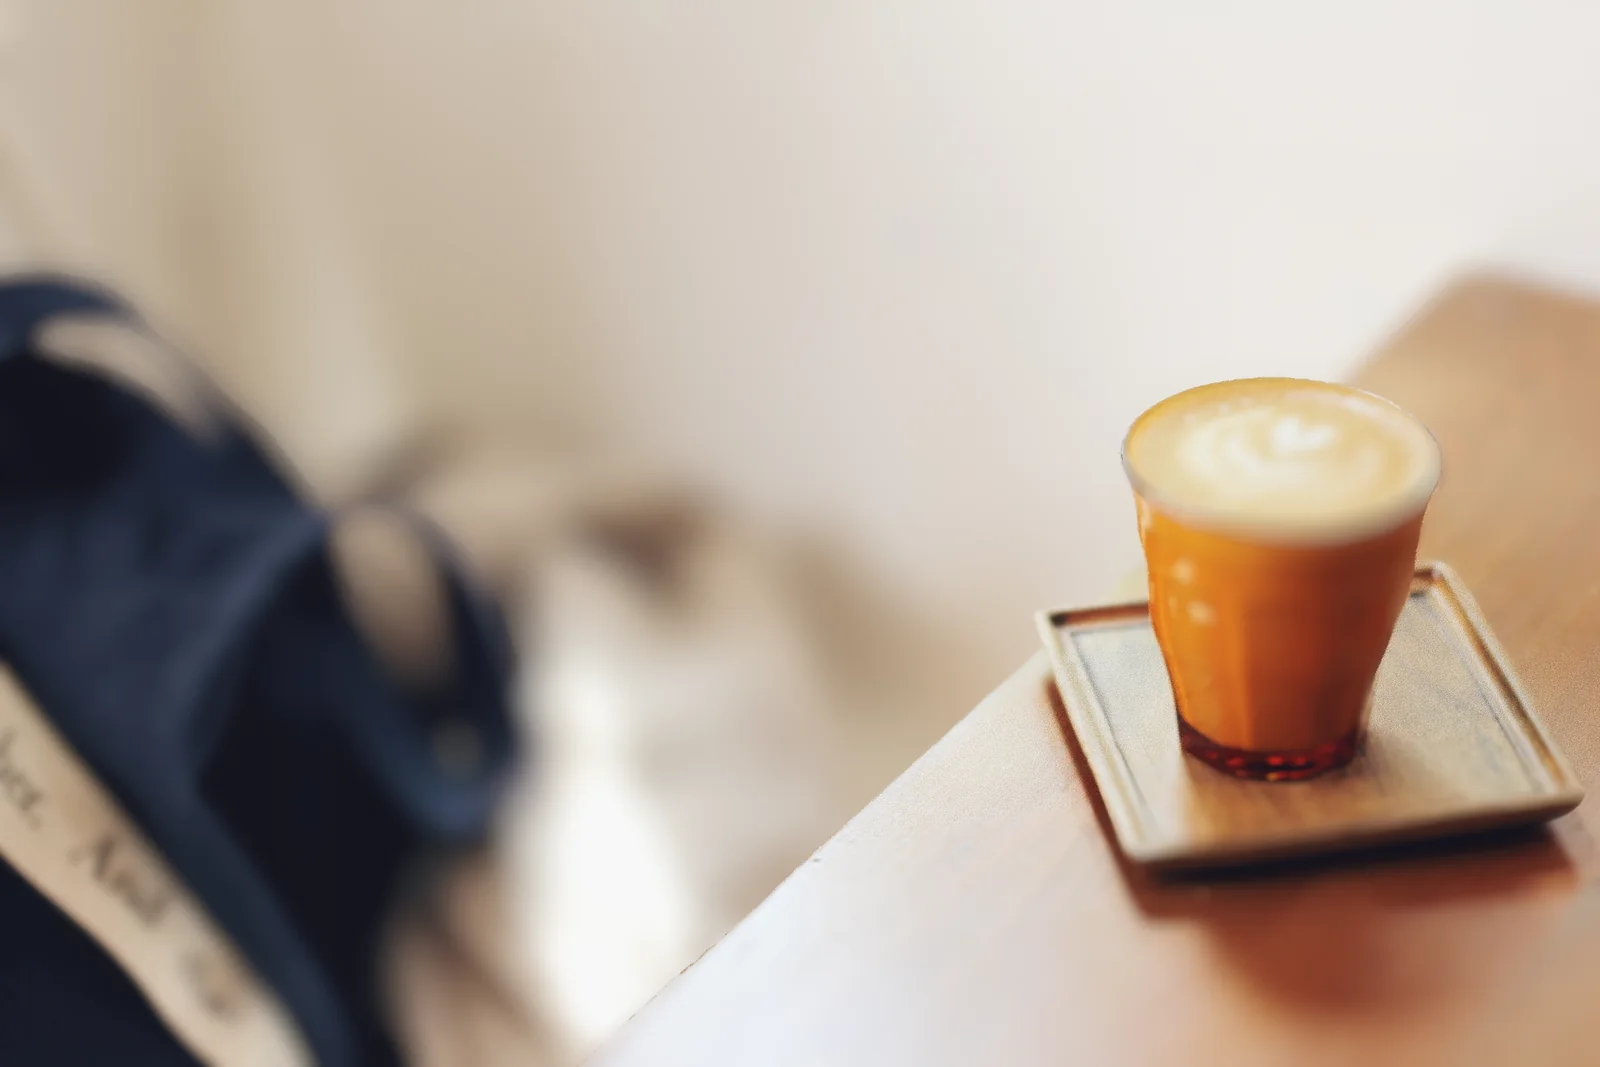
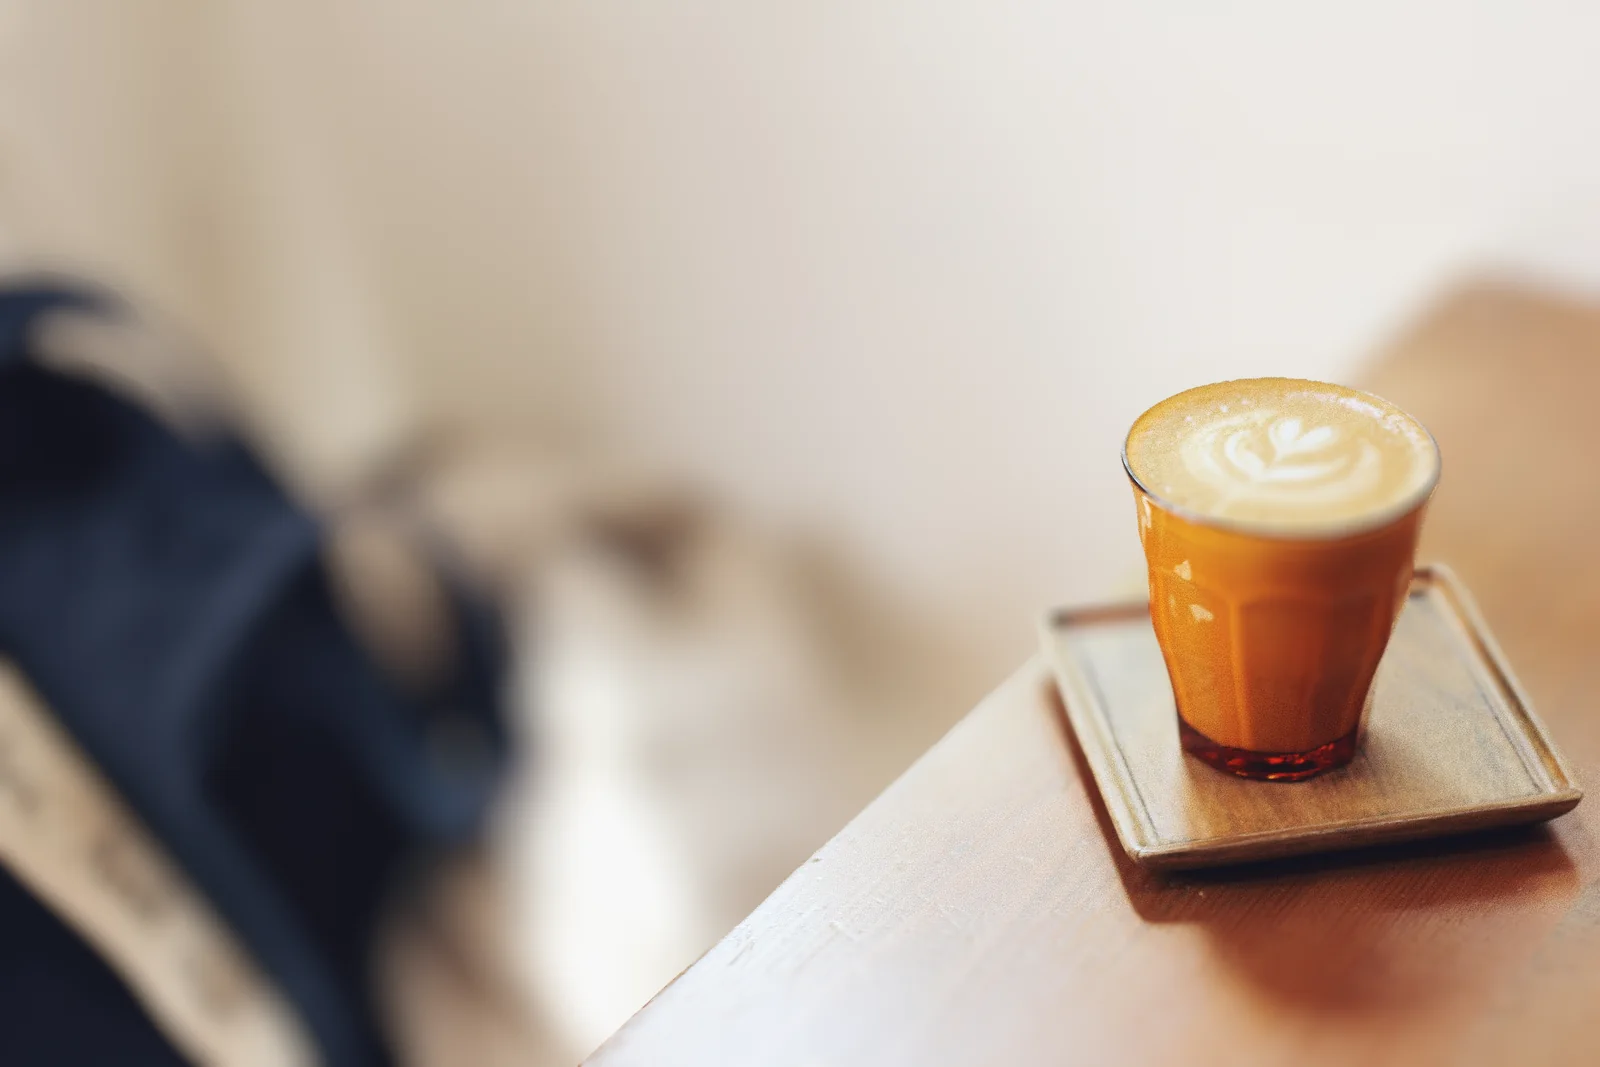
Lucent Lab 0.4 beta: download, checksum and page text (Point colour, Relight, Adaptive looks, the new lens blur, Colour blotches), a new lens blur example, plus a Latest entry

diff --git a/prototype/lucent-lab/index.html b/prototype/lucent-lab/index.html
@@ -392,7 +392,7 @@ html::-webkit-scrollbar { display: none; }
         </div>
       </div>
       <div class="side fade-in d4">
-        <div><b>0.3 beta</b> &nbsp;·&nbsp; Windows 10 and 11</div>
+        <div><b>0.4 beta</b> &nbsp;·&nbsp; Windows 10 and 11</div>
         <div>Free, no account, nothing uploaded</div>
         <div class="drag"><i></i>Drag the light</div>
       </div>
@@ -524,7 +524,7 @@ html::-webkit-scrollbar { display: none; }
           <img class="after" src="media/blur-after.webp" alt="The same photo with a soft lens blur behind the cup" loading="lazy">
           <span class="bf">BEFORE</span><span class="af">AFTER</span>
           <div class="line"></div>
-          <div class="lab"><div><b>Lens blur</b><span>It reads the depth of the photo and blurs what's far away, like a wide-open lens.</span></div></div>
+          <div class="lab"><div><b>Lens blur</b><span>It reads the depth of the photo, keeps sharp what the camera focused on, and melts the rest like a wide-open lens.</span></div></div>
         </div>
       </div>
       <div class="facts">
@@ -579,10 +579,10 @@ html::-webkit-scrollbar { display: none; }
   <section class="dl" id="download">
     <div class="wrap">
       <img class="icon" src="media/icon.png" alt="Lucent Lab's icon" data-rise>
-      <h2 data-rise="2">Lucent Lab <em>0.3 beta</em></h2>
-      <p class="sub" data-rise="3">Free, for Windows. It's a beta: everything works, and it gets better with every update. The app tells you when a new one is out. Version 0.3, 26 October 2026.</p>
+      <h2 data-rise="2">Lucent Lab <em>0.4 beta</em></h2>
+      <p class="sub" data-rise="3">Free, for Windows. It's a beta: everything works, and it gets better with every update. The app tells you when a new one is out. Version 0.4, 27 October 2026.</p>
       <div class="acts" data-rise="3">
-        <a class="cta" href="https://github.com/SNAXUS1/stezy-site/releases/download/lucent-lab-v0.3.0/LucentLab-0.3.0.zip" id="dl-btn" data-dl>Download for Windows<span class="ic"><svg width="16" height="16" viewBox="0 0 16 16" fill="none" stroke="currentColor" stroke-width="1.4" stroke-linecap="round" stroke-linejoin="round"><path d="M8 2.5v10M3.5 8.5 8 13l4.5-4.5"/></svg></span></a>
+        <a class="cta" href="https://github.com/SNAXUS1/stezy-site/releases/download/lucent-lab-v0.4.0/LucentLab-0.4.0.zip" id="dl-btn" data-dl>Download for Windows<span class="ic"><svg width="16" height="16" viewBox="0 0 16 16" fill="none" stroke="currentColor" stroke-width="1.4" stroke-linecap="round" stroke-linejoin="round"><path d="M8 2.5v10M3.5 8.5 8 13l4.5-4.5"/></svg></span></a>
       </div>
       <div class="specs" data-rise>
         <div><small>SYSTEM</small><b>Windows 10 or 11, 64-bit</b></div>
@@ -590,7 +590,7 @@ html::-webkit-scrollbar { display: none; }
         <div><small>SIZE</small><b>690 MB, AI included</b></div>
         <div><small>PRICE</small><b>Free. No account.</b></div>
       </div>
-      <details class="sumbox" data-rise><summary>File checksum (SHA-256)</summary><code>0f157e9e8d3ccee6a9f6353273e9a11a8862b47857a3216c613c3799e153d749</code></details>
+      <details class="sumbox" data-rise><summary>File checksum (SHA-256)</summary><code>92b1338a3862bded89a3bcb1c30d41ce5a5e4543f9b782a19b6424d07d5a7293</code></details>
       <p class="fine" data-rise>The app isn't signed yet, so the first time Windows may say it "protected your PC". Click <b>More info</b>, then <b>Run anyway</b>. Your photos never leave your PC and your originals are never changed. Once a day it only asks stezy.lt whether there's a newer version.</p>
     </div>
   </section>
@@ -602,8 +602,8 @@ html::-webkit-scrollbar { display: none; }
     <div>
       <h4>LUCENT LAB</h4>
       <ul>
-        <li><a href="https://github.com/SNAXUS1/stezy-site/releases/download/lucent-lab-v0.3.0/LucentLab-0.3.0.zip" data-dl>Download 0.3 beta</a></li>
-        <li><a href="https://github.com/SNAXUS1/stezy-site/releases/tag/lucent-lab-v0.3.0" rel="noopener">Release notes</a></li>
+        <li><a href="https://github.com/SNAXUS1/stezy-site/releases/download/lucent-lab-v0.4.0/LucentLab-0.4.0.zip" data-dl>Download 0.4 beta</a></li>
+        <li><a href="https://github.com/SNAXUS1/stezy-site/releases/tag/lucent-lab-v0.4.0" rel="noopener">Release notes</a></li>
         <li><a href="/#apps">More apps on stezy.lt</a></li>
       </ul>
     </div>
@@ -976,8 +976,11 @@ $('#lab-reset').addEventListener('click', () => { for (const k in vals) vals[k] 
 const ITEMS = [
   ['Camera RAW', 'Opens the RAW files of over a thousand cameras, with automatic lens corrections for hundreds of lenses.'],
   ['Masks', 'Brush, gradients and distance masks, plus one click for the sky (every gap between the branches), the subject or anything you point at, with hair-fine edges.'],
+  ['Adaptive looks', 'One click, made for each photo: the AI finds the subject, the sky or the background and edits just those. Colour pop, Portrait glow, Cinematic, Spotlight and more.'],
+  ['Point colour', 'Click any colour in the photo and change just that colour. Colour pop keeps only the colours you picked.'],
+  ['Relight', 'Put a light into the photo and drag it around: it falls on what faces it, from the depth of the scene.'],
   ['Heal, Clone and Remove', 'Paint over a spot and clean texture from nearby blends in, or copy it exactly. Bigger things get painted over and filled in by AI.'],
-  ['AI Denoise', 'Cleans the camera\'s own sensor data, fast or at its very best, so even a nearly black photo comes back clean, with no purple in the blacks.'],
+  ['AI Denoise', 'Cleans the camera\'s own sensor data, fast or at its very best, so even a nearly black photo comes back clean. Colour blotches clears the big coloured patches in the dark parts of phone photos.'],
   ['Crop and Upright', 'Turn the photo under an upright frame, straighten in one click, and stand leaning buildings back up.'],
   ['Looks and presets', '12 looks to start from, your own presets, and the Lightroom presets you already own.'],
   ['Match a look', 'Point it at a photo you love and it matches the colour and the light.'],
@@ -992,7 +995,7 @@ $$('#index [data-rise]').forEach((el) => io.observe(el));
 
 // ---------------------------------------------------------------- download: counted (no personal data), like everywhere on stezy.lt
 $$('[data-dl]').forEach((a) => a.addEventListener('click', () => {
-  try { window.goatcounter?.count({ path: 'download/lucent-lab-v0.3.0', title: 'Lucent Lab 0.3.0', event: true }); } catch {}
+  try { window.goatcounter?.count({ path: 'download/lucent-lab-v0.4.0', title: 'Lucent Lab 0.4.0', event: true }); } catch {}
 }));
 
 // ---------------------------------------------------------------- the reel: sideways while you scroll; hold a photo to see the original

diff --git a/prototype/n/lucent-lab-0.4/index.html b/prototype/n/lucent-lab-0.4/index.html
@@ -1,0 +1,25 @@
+<!doctype html>
+<html lang="en">
+<head>
+<meta charset="utf-8">
+<meta name="viewport" content="width=device-width, initial-scale=1">
+<title>Lucent Lab 0.4 · STEZY</title>
+<meta name="description" content="Point colour: click any colour in the photo and change just that colour. Colour pop keeps only the colours you picked.">
+<link rel="canonical" href="https://stezy.lt/#latest/lucent-lab-0.4">
+<meta property="og:type" content="article">
+<meta property="og:site_name" content="STEZY">
+<meta property="og:title" content="Lucent Lab 0.4">
+<meta property="og:description" content="Point colour: click any colour in the photo and change just that colour. Colour pop keeps only the colours you picked.">
+<meta property="og:url" content="https://stezy.lt/n/lucent-lab-0.4/">
+<meta property="og:image" content="https://stezy.lt/og.jpg">
+<meta property="og:image:width" content="1200">
+<meta property="og:image:height" content="630">
+<meta property="article:published_time" content="2026-10-26T23:47:46Z">
+<meta name="twitter:card" content="summary_large_image">
+<link rel="icon" type="image/svg+xml" href="/favicon.svg">
+<meta http-equiv="refresh" content="0; url=/#latest/lucent-lab-0.4">
+<script>location.replace('/#latest/lucent-lab-0.4');</script>
+<style>body{margin:0;min-height:100vh;display:grid;place-items:center;background:#050509;color:#a9a6c4;font:16px system-ui,sans-serif}a{color:#f2f0ff}</style>
+</head>
+<body><p>Opening <a href="/#latest/lucent-lab-0.4">Lucent Lab 0.4</a> on stezy.lt...</p></body>
+</html>
